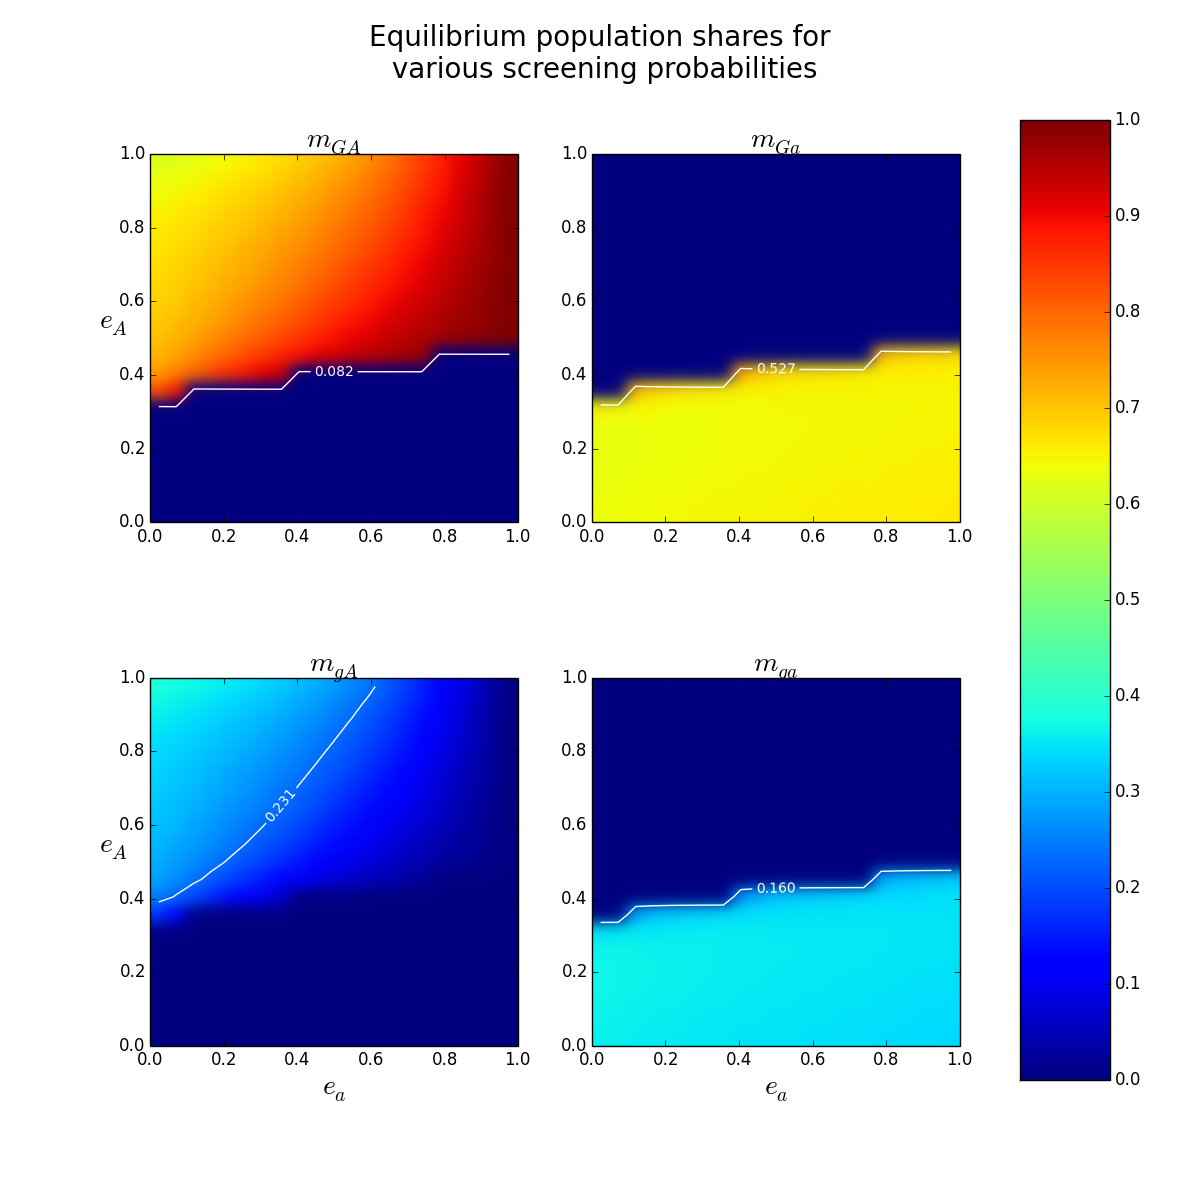
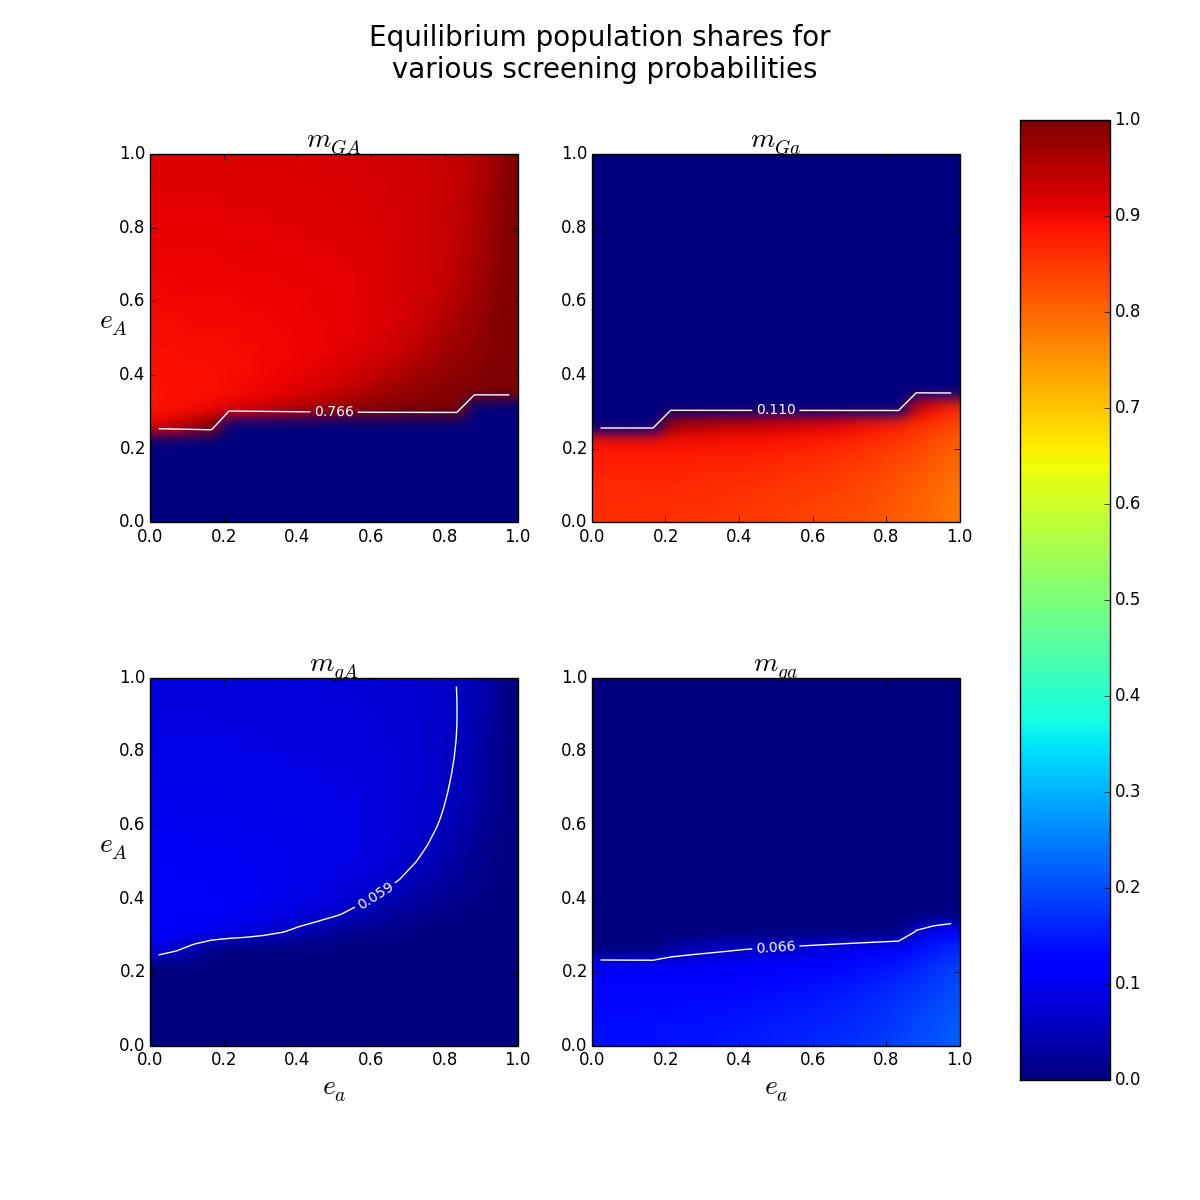
Updated the imperfect screening example.

diff --git a/examples/random-signaling/imperfect_screening_sweep.py b/examples/random-signaling/imperfect_screening_sweep.py
@@ -7,9 +7,9 @@ import matplotlib.pyplot as plt
 from package import model
 
 # fix the initial condition
-prng = np.random.RandomState(42)
+prng = np.random.RandomState(12345)
 initial_males = prng.dirichlet(np.ones(4), size=1)
-initial_females = prng.dirichlet(np.ones(4), size=1)
+initial_females = initial_males
 initial_condition = np.hstack((initial_males, initial_females))
 
 # define an array of screening probabilities
@@ -59,14 +59,14 @@ axes[0, 1].imshow(results[:, :, 1], origin='lower', extent=[0, 1, 0, 1],
                   interpolation='gaussian', vmin=0, vmax=1)
 CS1 = axes[0, 1].contour(results[:, :, 1], levels=[initial_condition[0, 1]],
                          colors='white', origin='lower', extent=[0, 1, 0, 1])
-axes[0, 0].clabel(CS1, inline=1, fontsize=10)
+axes[0, 1].clabel(CS1, inline=1, fontsize=10)
 axes[0, 1].set_title('$m_{Ga}$', fontsize=20)
 
 axes[1, 0].imshow(results[:, :, 2], origin='lower', extent=[0, 1, 0, 1],
                   interpolation='gaussian', vmin=0, vmax=1)
 CS2 = axes[1, 0].contour(results[:, :, 2], levels=[initial_condition[0, 2]],
                          colors='white', origin='lower', extent=[0, 1, 0, 1])
-axes[0, 0].clabel(CS2, inline=1, fontsize=10)
+axes[1, 0].clabel(CS2, inline=1, fontsize=10)
 
 axes[1, 0].set_xlabel('$e_a$', fontsize=20, rotation='horizontal')
 axes[1, 0].set_ylabel('$e_A$', fontsize=20, rotation='horizontal')
@@ -76,7 +76,7 @@ axes[1, 1].imshow(results[:, :, 3], origin='lower', extent=[0, 1, 0, 1],
                   interpolation='gaussian', vmin=0, vmax=1)
 CS3 = axes[1, 1].contour(results[:, :, 3], levels=[initial_condition[0, 3]],
                          colors='white', origin='lower', extent=[0, 1, 0, 1])
-axes[0, 0].clabel(CS3, inline=1, fontsize=10)
+axes[1, 1].clabel(CS3, inline=1, fontsize=10)
 axes[1, 1].set_xlabel('$e_a$', fontsize=20, rotation='horizontal')
 axes[1, 1].set_title('$m_{ga}$', fontsize=20)
 
